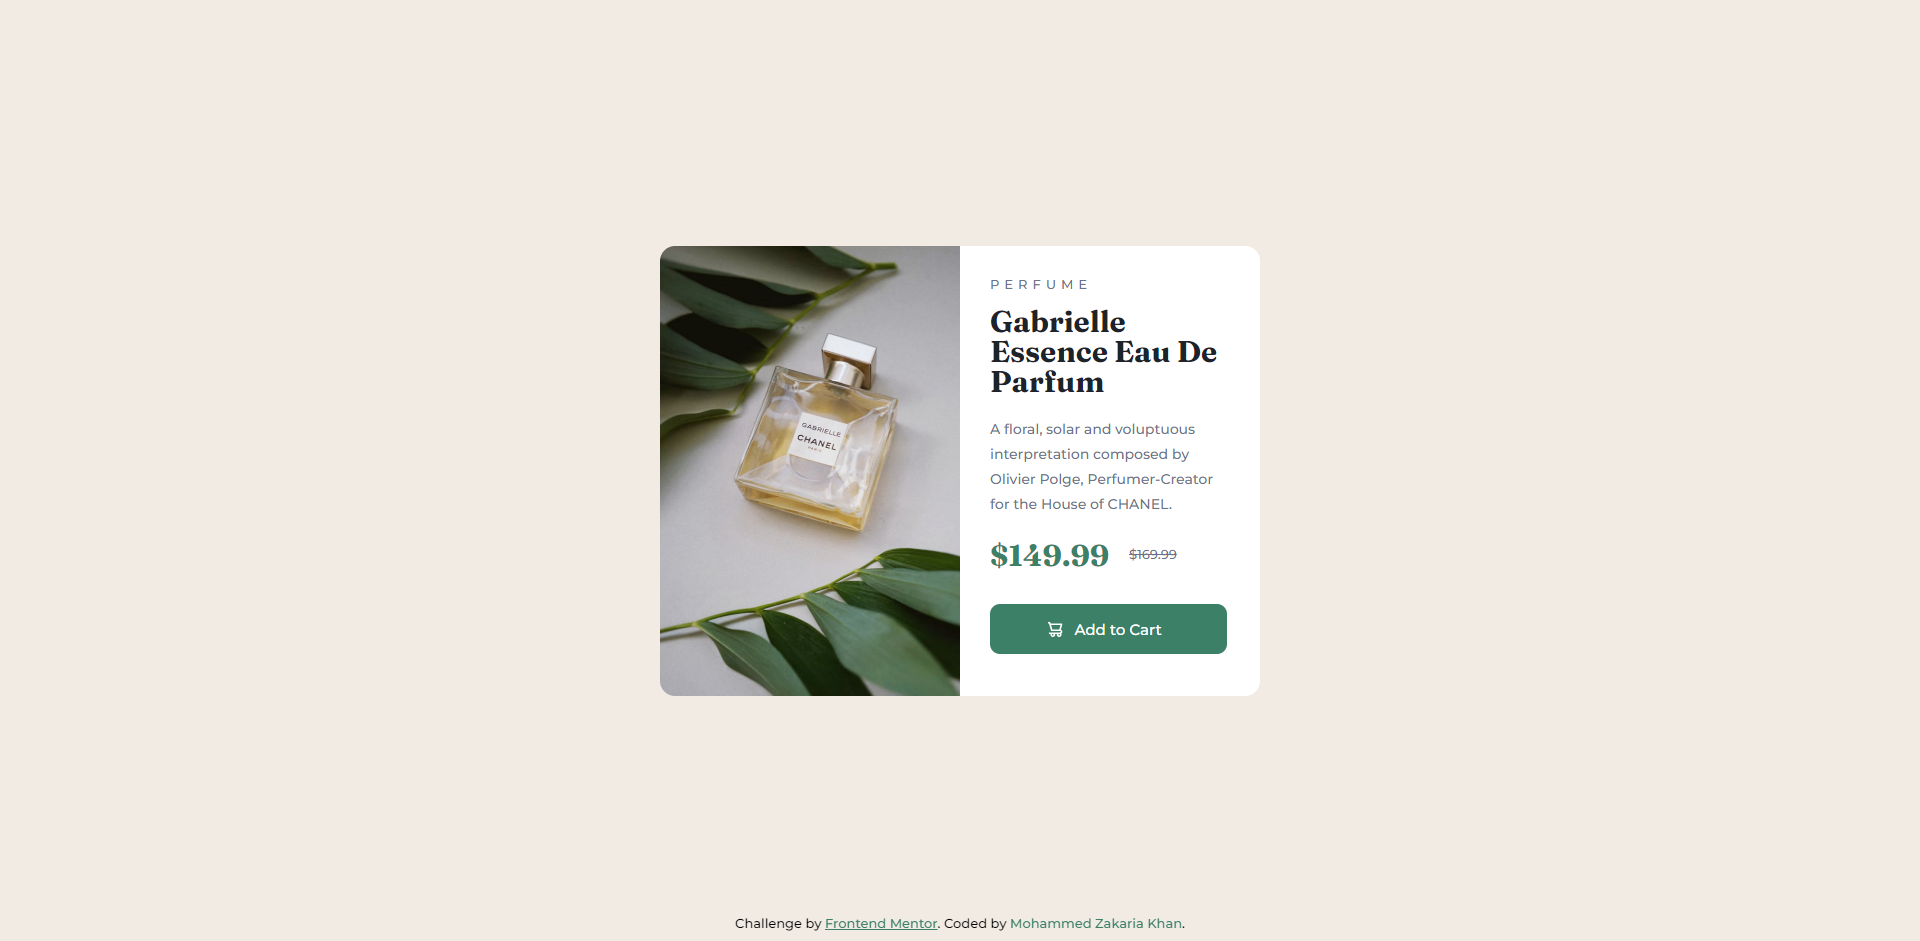
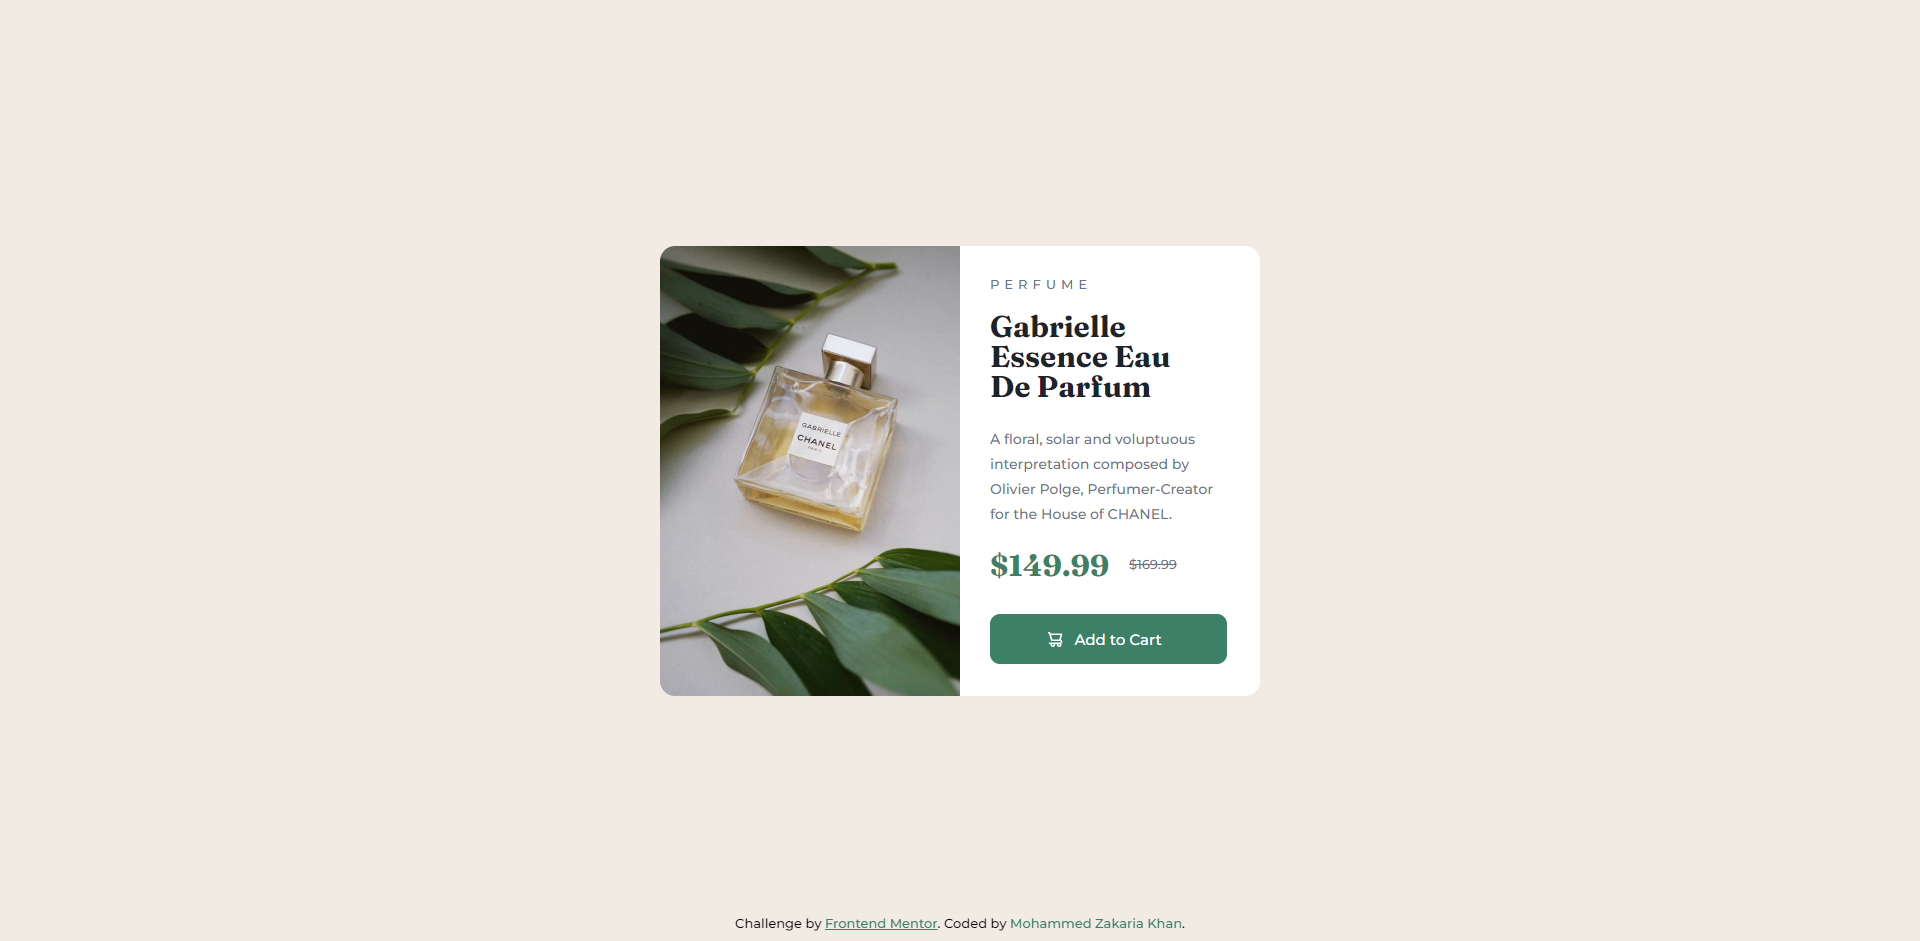
Adjust padding

Changed region(s): [[0.5, 0.339, 0.625, 0.5547], [0.5, 0.5855, 0.6562, 0.7088]]

diff --git a/product-preview-card-component-main/style.css b/product-preview-card-component-main/style.css
@@ -144,6 +144,10 @@ button:hover {
         padding: 30px 60px 0 30px;
     }
 
+    h1 {
+        padding: 15px 20px 15px 0;
+    }
+
     button {
         width: 237px;
     }
